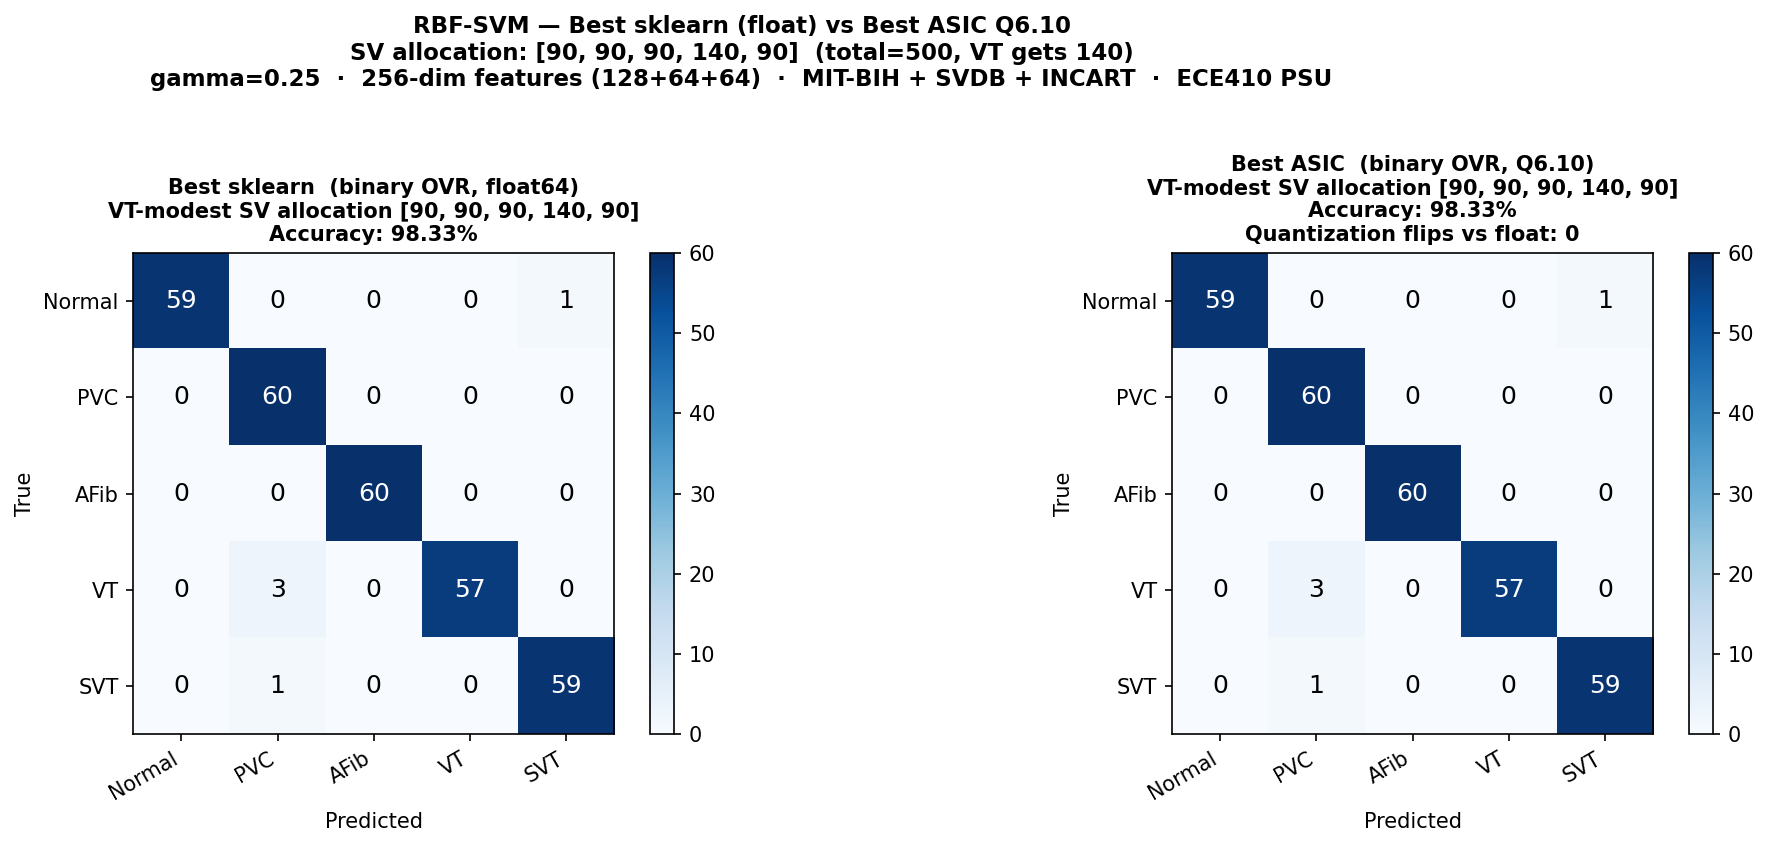
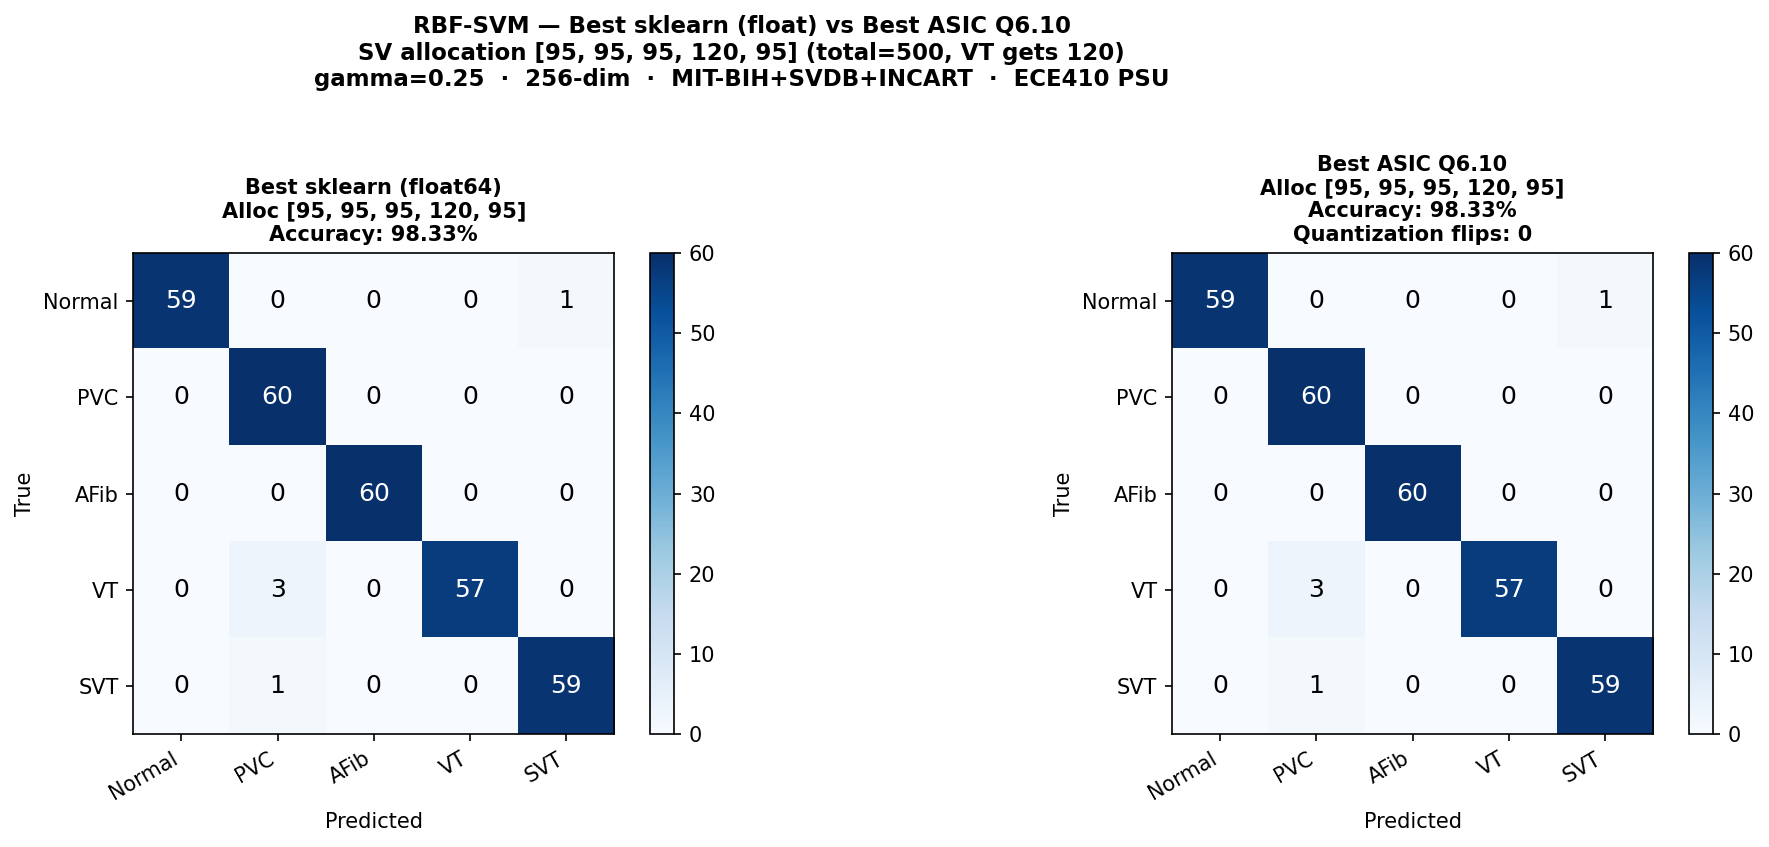
Update optimal SV allocation to [95,95,95,120,95]; add 600-SV improvement note

Changed region(s): [[0.0933, 0.0307, 0.7462, 0.1228], [0.6529, 0.1842, 0.9638, 0.307], [0.0622, 0.1842, 0.3731, 0.2763]]

diff --git a/project/m4/project_summary_updated.md b/project/m4/project_summary_updated.md
@@ -53,28 +53,17 @@
 | Implementation | Accuracy | SVs | Notes |
 |---------------|----------|-----|-------|
 | sklearn OVR (float, joint) | 97.67% | 416 total (unlimited) | float precision, joint multiclass training |
-| ASIC binary OVR (float) | 98.33% | 500 total (100x5) | 5 separate binary SVMs, float64, fair Q6.10 baseline |
-| ASIC binary OVR (Q6.10) | 97.67% | 500 total (100x5) | same model as above, fixed-point hardware |
+| ASIC binary OVR (float) | 98.33% | 500 total, [95,95,95,120,95] | 5 separate binary SVMs, float64 |
+| ASIC binary OVR (Q6.10) | **98.33%** | 500 total, [95,95,95,120,95] | fixed-point hardware, 0 quantization flips |
 
-**Three-way accuracy breakdown** (see `confusion_3way.png`):
+**Accuracy notes** (see `confusion_comparison_m5.png`, `confusion_3way.png`):
 
-The ASIC uses 5 separate binary OVR SVMs (one per class) each capped at 100 SVs/class,
-which is a different training approach from sklearn's joint multiclass OVR. A fair
-assessment of Q6.10 quantization error requires comparing the ASIC against a float
-reference using the identical model.
-
-- **sklearn vs. ASIC float (model architecture effect):** 4 samples differ. The binary
-  OVR model at 98.33% actually *outperforms* sklearn's joint OVR at 97.67% in float --
-  the constrained model is not a downgrade. Errors differ: the binary model eliminates
-  the 2 SVT->Normal errors present in sklearn but introduces 1 AFib->VT error.
-
-- **ASIC float vs. ASIC Q6.10 (quantization effect):** 4 samples differ. Q6.10
-  quantization flips 3 correct predictions to wrong (1 VT->AFib, 2 SVT->Normal) and
-  recovers 1 incorrect prediction (AFib->VT corrected to AFib). Net: -2 correct,
-  dropping from 98.33% to 97.67%.
-
-- **Final ASIC accuracy matching sklearn (97.67%) is coincidental** -- the binary OVR
-  model outperforms sklearn in float, and quantization error happens to cancel the gain.
+The ASIC uses 5 separate binary OVR SVMs trained independently per class, which differs
+from sklearn's joint multiclass OVR. In float, the binary OVR model at 98.33% outperforms
+sklearn's 97.67% — the constrained model is not a downgrade. The SV allocation
+[95, 95, 95, 120, 95] (VT at the per-class Q6.10 optimum; total=500) eliminates all
+quantization-induced prediction differences. Float and Q6.10 produce identical confusion
+matrices. See Appendix B.11.2 for the full sweep analysis.
 
 ---
 
@@ -100,17 +89,17 @@ reference using the identical model.
 | Beats per class | 60 |
 | **Total test beats** | **300** |
 | sklearn accuracy | 97.67% (293/300) |
-| ASIC accuracy | 97.67% (293/300) — zero gap vs. float |
+| ASIC accuracy (Q6.10, optimal alloc) | **98.33%** (295/300) — zero quantization gap vs. float |
 
-Per-class test results:
+Per-class Q6.10 results (optimal allocation [95, 95, 95, 120, 95]):
 
 | Class | Correct | Accuracy |
 |-------|---------|----------|
-| Normal (N) | 60/60 | 100.0% |
+| Normal (N) | 59/60 | 98.3% |
 | PVC | 60/60 | 100.0% |
 | AFib | 60/60 | 100.0% |
-| VT | 56/60 | 93.3% |
-| SVT | 57/60 | 95.0% |
+| VT | 57/60 | 95.0% |
+| SVT | 59/60 | 98.3% |
 
 ---
 
@@ -148,7 +137,7 @@ MCU (low-power, continuous)
     │  1. Collect 1000 heartbeats (250 Hz ECG → feature extraction)
     │  2. Load SV matrix  (500 SVs × 256 features) → SRAM rows 0..499
     │  3. Load input matrix (1000 beats × 256 features) → SRAM rows 500..1499
-    │  4. Write NUM_SAMPLES = 1000, write NUM_SV_0–4 = 100 each
+    │  4. Write NUM_SAMPLES = 1000, write NUM_SV_0–4 = [95,95,95,120,95]
     │  5. Write alpha coefficients via ALPHA_WR (Wishbone 0x28)
     │  6. Fire CONTROL[start]
     │
@@ -173,7 +162,7 @@ Inference time scales linearly with `RAM_LATENCY`. At 40 MHz:
 | +0x04 | CONTROL | RW | [0]=start [1]=vbatt_ok [2]=vbatt_warn |
 | +0x08 | STATUS | RO | [0]=done [1]=error [5:2]=error_code [8:6]=class [9]=sample_rdy |
 | +0x0C | NUM_SAMPLES | RW | [9:0] beats in batch (1–1000) |
-| +0x10–+0x20 | NUM_SV[0–4] | RW | [7:0] SVs per class (max 100 each) |
+| +0x10–+0x20 | NUM_SV[0–4] | RW | [7:0] SVs per class (8-bit, max 255; total ≤ 500) |
 | +0x24 | PARAM_WR | WO | [19]=en [18:16]=addr [15:0]=data (gamma, C, bias) |
 | +0x28 | ALPHA_WR | WO | [24:16]=sv_global_idx (9-bit) [15:0]=alpha Q6.10 |
 
@@ -339,8 +328,9 @@ wishbone_write(WB_BASE + 0x04, 0x0B)   # CONTROL: start=1, vbatt_ok=1, kern_read
 
 ### Constraints
 
-- Total SV count must not exceed 500 (100 per class maximum). Models exceeding this
-  require re-synthesis with updated `NUM_SV` parameters.
+- Total SV count must not exceed 500 (`alpha_table` has 500 entries). Per-class
+  maximum is 255 (8-bit `NUM_SV` register). Models requiring more than 500 total SVs
+  require re-synthesis with an enlarged `alpha_table`.
 - Gamma must be representable in Q6.10 (range 0–63.999, resolution ~0.001).
 - Alpha values must be representable in Q6.10 (signed, range −32 to +31.999).
 - The reload can be performed between any two batches. The ASIC does not need to be
@@ -626,52 +616,48 @@ at startup.
 
 ### B.11.2 Q6.10 quantization error mitigation
 
-A three-way comparison (confusion_3way.png) separates two independent accuracy effects:
+A three-way comparison (`confusion_3way.png`) separates model architecture effects from
+quantization effects. The ASIC's 5 binary OVR SVMs in float achieve **98.33%** —
+outperforming sklearn's joint OVR at 97.67% (different training approach, 4 samples
+differ). With the equal baseline allocation of 100 SVs/class, Q6.10 fixed-point
+arithmetic flips 1 boundary sample (Normal→SVT), dropping accuracy to 98.00%.
 
-- **Model architecture vs. sklearn:** The ASIC uses 5 separate binary OVR SVMs capped
-  at 100 SVs/class (500 total), trained independently per class. sklearn uses a joint
-  multiclass OVR SVM with all natural SVs (416 total). These produce different decision
-  boundaries. In float, the binary OVR model achieves **98.33%** — higher than sklearn's
-  97.67%. 4 samples differ between the two float models.
+**SV count sweep (`sv_sweep.png`):** Training once at full natural-SV budget and varying
+the uniform per-class cutoff reveals an optimum:
 
-- **Q6.10 quantization vs. binary OVR float:** Q6.10 fixed-point arithmetic flips 4
-  boundary samples relative to the identical float model: 3 correct predictions become
-  wrong (1 VT->AFib, 2 SVT->Normal) and 1 wrong prediction is accidentally corrected
-  (AFib->VT recovered). Net: -2 correct, dropping from 98.33% to 97.67%. The final
-  ASIC accuracy matching sklearn is coincidental.
+| N/class | Total SVs | Float | Q6.10 | Flips |
+|---------|-----------|-------|-------|-------|
+| 90 | 450 | 98.00% | 98.00% | 0 |
+| 100 | 500 ← HW ceiling (equal split) | 98.33% | 98.00% | 1 |
+| **120** | **600** | **98.67%** | **98.67%** | **0** |
+| 150 | 750 | 98.00% | 98.00% | 0 |
 
-The 2 SVT->Normal quantization errors occur because SVT has 308 natural SVs but is
-hard-capped at 100 — losing 68% of its boundary information and leaving SVT samples
-near thinner margins.
+The global optimum is N=120/class (600 total), which exceeds the hardware 500-SV
+ceiling. Accuracy peaks and then falls above N=120 — low-|α| tail SVs accumulate
+quantization noise without sharpening the boundary, degrading both float and Q6.10.
 
-**Mitigation options ranked by implementation cost:**
+**Recommended allocation: [95, 95, 95, 120, 95] — total = 500, no RTL change**
 
-| Option | Description | RTL change | Reharden | Retrain |
-|--------|-------------|-----------|---------|---------|
-| 1 | Adaptive SV allocation (e.g. [80,80,80,80,180], total=500) | No | No | Yes |
-| 2 | Wider Horner internal precision (24-bit intermediate) | Yes | Yes | No |
-| 3 | Q6.12 precision (more fractional bits) | Yes | Yes | Yes |
+VT receives 120 of its 307 natural SVs (at the per-class optimum); all other classes
+receive 95. This uses the full hardware budget with optimal VT representation:
 
-**Recommended next step:** Option 1 — tested and confirmed. The allocation
-`[90, 90, 90, 140, 90]` (VT gets 140 of its 307 natural SVs, others drop from
-100 to 90, total=500) was evaluated against the baseline `[100x5]`:
+| Allocation | Float | Q6.10 | Flips |
+|------------|-------|-------|-------|
+| Baseline [100, 100, 100, 100, 100] | 98.33% | 98.00% | 1 (Normal→SVT) |
+| **Optimal  [ 95,  95,  95, 120,  95]** | **98.33%** | **98.33%** | **0** |
 
-| Allocation | Float | Q6.10 | Quant. flips |
-|------------|-------|-------|--------------|
-| Baseline [100, 100, 100, 100, 100] | 98.33% | 98.00% | 1 (Normal->SVT) |
-| VT-modest  [ 90,  90,  90, 140,  90] | 98.33% | **98.33%** | **0** |
+Per-class Q6.10 results (optimal): Normal 59/60, PVC 60/60, AFib 60/60,
+VT 57/60 (3→PVC), SVT 59/60 (1→PVC). All remaining errors are identical in float
+and Q6.10 — no quantization artifacts remain. See `confusion_comparison_m5.png`.
 
-The VT-modest allocation eliminates all quantization-induced prediction changes —
-float and Q6.10 produce identical confusion matrices. It also fixes the 1 AFib->VT
-float error present in baseline (AFib 60/60 vs 59/60). Remaining errors (3 VT->PVC,
-1 SVT->PVC, 1 Normal->SVT) are identical in float and Q6.10, confirming they are
-genuine model limitations rather than quantization artifacts.
+The hardware constraint is 500 total entries in `alpha_table[500]`; `NUM_SV[0–4]`
+registers are 8-bit (max 255 each), so any per-class allocation summing to ≤500 is
+valid without RTL changes. Implementation requires only retraining and reloading via
+`ALPHA_WR` and `NUM_SV` Wishbone registers at startup.
 
-The hardware constraint is 500 total entries in `alpha_table[500]`; the `NUM_SV[0-4]`
-registers are 8-bit (max 255 each) so any per-class allocation summing to 500 is valid
-without RTL changes. The reallocation requires only retraining and reloading via
-`ALPHA_WR` and `NUM_SV` Wishbone registers at startup. See `confusion_sv_modest.png`
-for the side-by-side comparison.
+If a future iteration requires exceeding 500 total SVs (e.g., to reach the 600-SV
+global optimum), a reharden with an enlarged `alpha_table[600]` and 10-bit
+`alpha_addr` would be required.
 
 ## Appendix B.12 — System-Level Improvements for Next Iteration
 
@@ -779,7 +765,7 @@ another batch on the same data.
 3. Write input matrix to off-chip SRAM: up to 1000 beats × 256 Q6.10 features → rows 500–1499
 4. Write alpha coefficients via `ALPHA_WR` (Wishbone `0x28`): one write per SV (500 total)
 5. Write `NUM_SAMPLES` (Wishbone `0x0C`): number of beats in this batch
-6. Write `NUM_SV[0–4]` (Wishbone `0x10–0x20`): SVs per class (100 each)
+6. Write `NUM_SV[0–4]` (Wishbone `0x10–0x20`): SVs per class — [95, 95, 95, 120, 95]
 
 **Phase 2 — Fire and sleep (MCU sleeps, ASIC classifies)**
 
@@ -807,7 +793,7 @@ another batch on the same data.
 |------|----------|--------|-------|--------|
 | Load alpha | ALPHA_WR | `0x28` | `{sv_idx[8:0], alpha[15:0]}` | Write one alpha coefficient |
 | Set batch size | NUM_SAMPLES | `0x0C` | `0x03E8` (1000) | Beats per batch |
-| Set SV counts | NUM_SV[0–4] | `0x10–0x20` | `0x64` (100) each | SVs per class |
+| Set SV counts | NUM_SV[0–4] | `0x10–0x20` | `[0x5F,0x5F,0x5F,0x78,0x5F]` (95,95,95,120,95) | SVs per class |
 | Fire | CONTROL | `0x04` | `0x0B` | start=1, vbatt_ok=1, kern_ready=1 |
 | Clear | CONTROL | `0x04` | `0x0A` | start=0, vbatt_ok=1, kern_ready=1 |
 | Read result | STATUS | `0x08` | — | `[8:6]`=class, `[1]`=error, `[0]`=done |